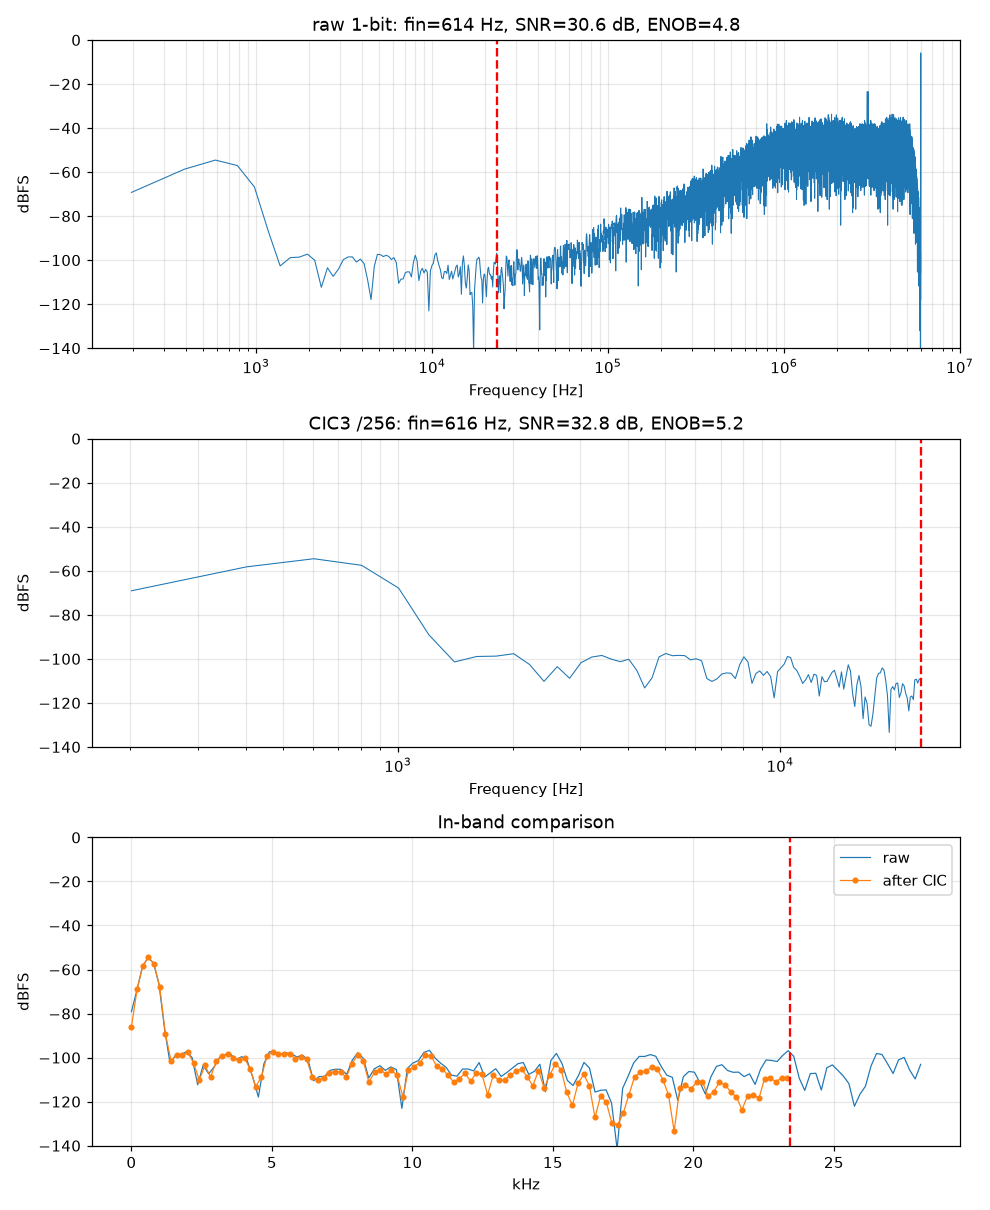
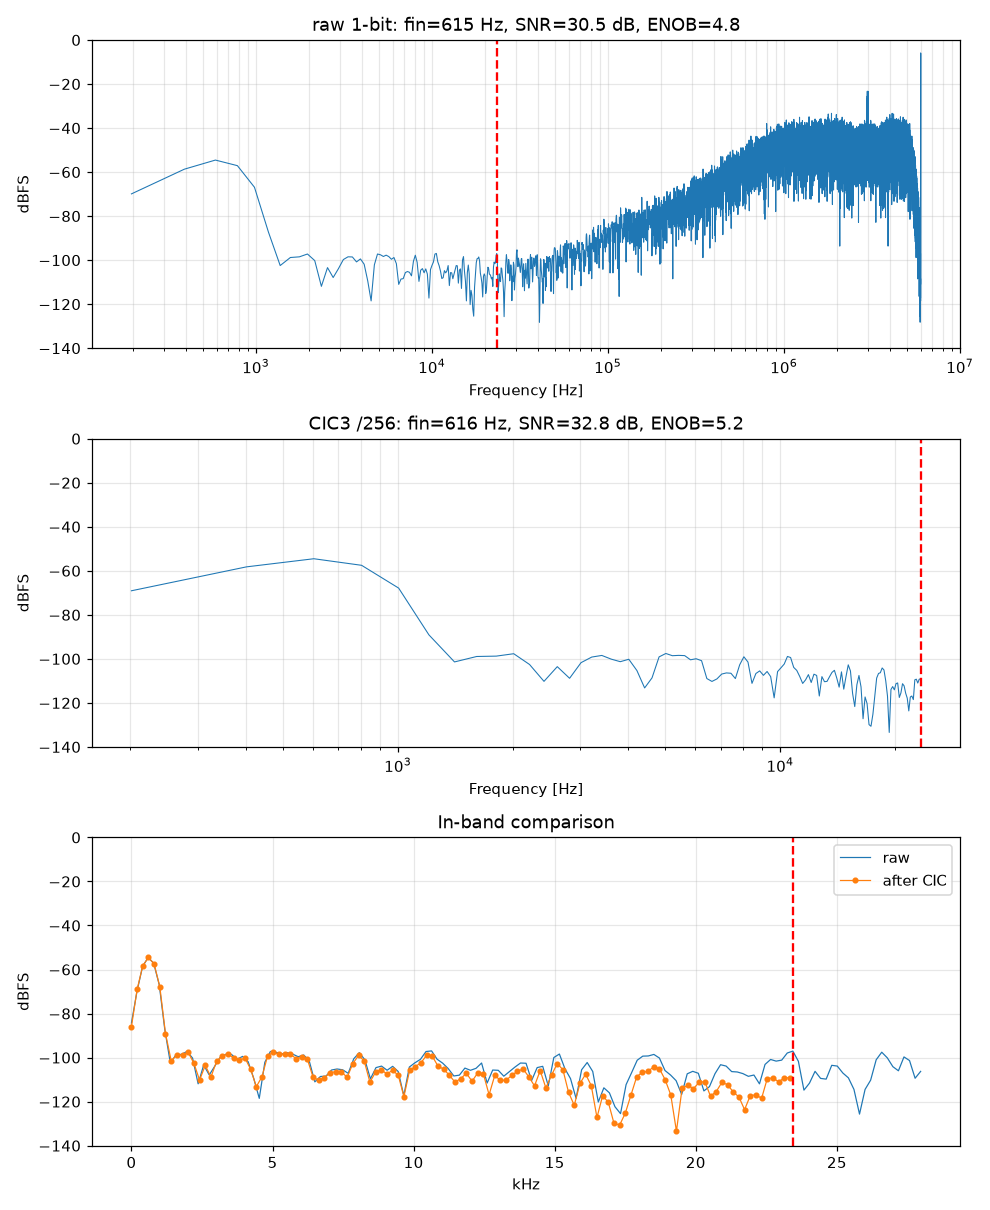
dsm_fft.py: add --skip/--n/--fin options and coherent-sampling check
Claude-Session: https://claude.ai/code/session_017nRNj88iHifrfHL9Eotfk6

diff --git a/dsm_fft.py b/dsm_fft.py
@@ -1,6 +1,11 @@
 """FFT analysis of a 1-bit delta-sigma ADC stream, raw and after a CIC decimator.
 
-Usage: python dsm_fft.py [capture.txt] [fs] [OSR] [cic_order]
+Usage: python dsm_fft.py [capture.txt] [fs] [OSR] [cic_order] [--skip S] [--n N] [--fin F]
+  --skip S  drop the first S samples (start-up transient), default 0
+  --n N     use N contiguous samples after the skip (default: all, cut to a
+            multiple of OSR so the CIC output is whole)
+  --fin F   expected input frequency [Hz]; checks coherence (M=fin*N/fs integer,
+            gcd(M,N)=1). Coherent example: fs=12 MHz, N=65536, M=11 -> 2014.16015625 Hz
 Needs: numpy, matplotlib   (pip install numpy matplotlib)
 
 The CIC matches deci_hspice.mdl: `order` integrators at fs, decimate by R=OSR,
@@ -11,10 +16,19 @@ import numpy as np
 import matplotlib
 import matplotlib.pyplot as plt
 
-path = sys.argv[1] if len(sys.argv) > 1 else "adc1khz1150927.txt"
-fs = float(sys.argv[2]) if len(sys.argv) > 2 else 12e6
-osr = int(float(sys.argv[3])) if len(sys.argv) > 3 else 256
-order = int(sys.argv[4]) if len(sys.argv) > 4 else 3
+import math
+
+args, opts, it = [], {}, iter(sys.argv[1:])
+for a in it:
+    if a.startswith("--"):
+        opts[a[2:]] = next(it)
+    else:
+        args.append(a)
+path = args[0] if len(args) > 0 else "adc1khz1150927.txt"
+fs = float(args[1]) if len(args) > 1 else 12e6
+osr = int(float(args[2])) if len(args) > 2 else 256
+order = int(args[3]) if len(args) > 3 else 3
+skip = int(float(opts.get("skip", 0)))
 bw = fs / (2 * osr)                       # signal bandwidth
 
 
@@ -68,6 +82,18 @@ def analyze(v, fs, bw, name):
 
 x = np.loadtxt(path)                      # one 0/1 (or -1/+1) value per line
 v = 2 * x - 1 if set(np.unique(x)) <= {0, 1} else x.astype(float)
+
+v = v[skip:]
+n_use = int(float(opts["n"])) if "n" in opts else len(v) // osr * osr
+if n_use > len(v):
+    sys.exit(f"need {n_use} samples after skip={skip}, file has only {len(v)}")
+v = v[:n_use]
+if n_use % osr:
+    print(f"warning: N={n_use} is not a multiple of OSR={osr}")
+if "fin" in opts:
+    M = float(opts["fin"]) * n_use / fs
+    ok = abs(M - round(M)) < 1e-6 and math.gcd(int(round(M)), n_use) == 1
+    print(f"coherence: M = fin*N/fs = {M:.6f} -> {'OK' if ok else 'NOT coherent (M must be an integer coprime to N)'}")
 
 raw = analyze(v, fs, bw, "raw 1-bit")
 y = cic_decimate(v, osr, order)[order + 2:]          # drop CIC start-up transient
